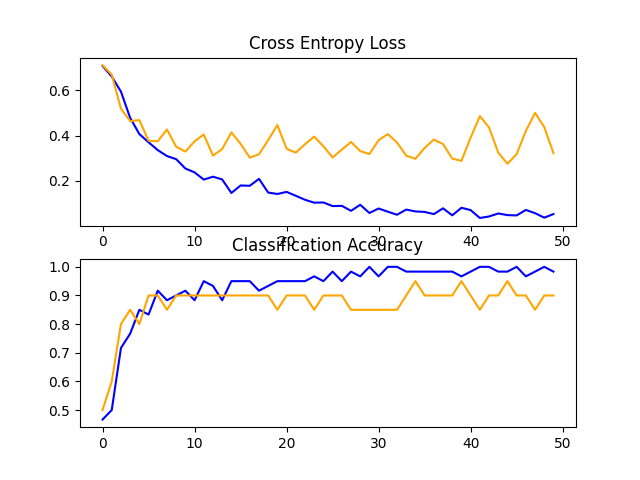
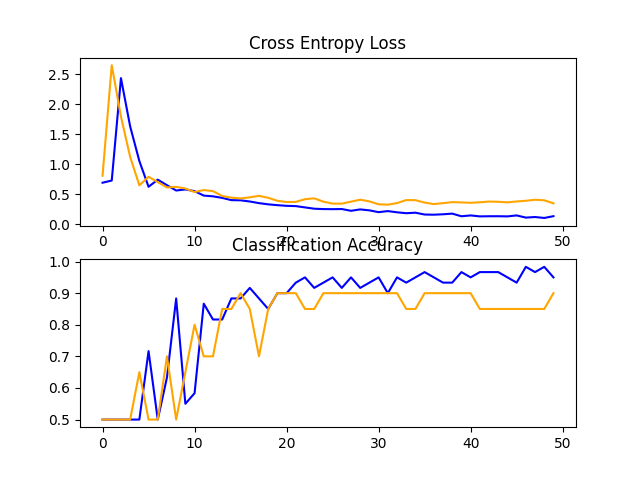
one

diff --git a/q_3_mlp.py b/q_3_mlp.py
@@ -1,0 +1,143 @@
+import sys
+import numpy as np
+from matplotlib import pyplot
+import matplotlib.pyplot as plt
+from keras.models import Sequential
+from keras.layers import Conv2D
+from keras.layers import MaxPooling2D
+from keras.layers import Dense,Activation
+from keras.layers import Flatten
+from tensorflow.keras.optimizers import SGD
+from keras.preprocessing.image import ImageDataGenerator
+from sklearn.model_selection import train_test_split 
+from PIL import Image
+import os
+
+def define_model_mlp():
+  hidden_units = 200
+  image_size = 200
+  input_size = image_size * image_size*3
+  n=244
+
+  model=Sequential()
+  model.add(Dense(hidden_units, input_shape=(200*200*3,)))
+  for i in range(n-2):
+    model.add(Dense(hidden_units))
+  model.add(Dense(1))
+  # this is the output for one-hot vector
+  model.add(Activation('softmax'))
+  # compile model
+  opt = SGD(lr=0.001, momentum=0.9)
+  model.compile(optimizer=opt, loss='binary_crossentropy', metrics=['accuracy'])
+
+  return model
+
+def plotmodelhistory(history): 
+    fig, axs = plt.subplots(1,2,figsize=(15,5)) 
+    # summarize history for accuracy
+    axs[0].plot(history.history['accuracy']) 
+    #axs[0].plot(history.history['val_accuracy']) 
+    axs[0].set_title('Model Accuracy')
+    axs[0].set_ylabel('Accuracy') 
+    axs[0].set_xlabel('Epoch')
+    
+    axs[0].legend(['train', 'validate'], loc='upper left')
+    # summarize history for loss
+    axs[1].plot(history.history['loss']) 
+    #axs[1].plot(history.history['val_loss']) 
+    axs[1].set_title('Model Loss')
+    axs[1].set_ylabel('Loss') 
+    axs[1].set_xlabel('Epoch')
+    axs[1].legend(['train', 'validate'], loc='upper left')
+    plt.show()
+ 
+# plot diagnostic learning curves
+def summarize_diagnostics(history):
+  # plot loss
+  pyplot.subplot(211)
+  pyplot.title('Cross Entropy Loss')
+  pyplot.plot(history.history['loss'], color='blue', label='train')
+  #pyplot.plot(history.history['val_loss'], color='orange', label='test')
+  # plot accuracy
+  pyplot.subplot(212)
+  pyplot.title('Classification Accuracy')
+  pyplot.plot(history.history['accuracy'], color='blue', label='train')
+  #pyplot.plot(history.history['val_accuracy'], color='orange', label='test')
+  # save plot to file
+  filename = sys.argv[0].split('/')[-1]
+  pyplot.savefig(filename + '_plot.png')
+  pyplot.close()
+
+PATH_TRAIN_dirt = 'dataset_aero_vs_dirt/train/dirt' 
+PATH_TRAIN_aero = 'dataset_aero_vs_dirt/train/aero' 
+PATH_TEST_dirt = 'dataset_aero_vs_dirt/test/dirt' 
+PATH_TEST_aero = 'dataset_aero_vs_dirt/test/aero' 
+
+dirt = 1 
+aero = 0
+
+IMG_WIDTH = 200 
+IMG_HEIGHT = 200 
+NR_PIX = IMG_HEIGHT * IMG_WIDTH
+NR_CHANELS = 3
+NR_FEATURES = NR_PIX * NR_CHANELS
+
+def load_data_asanarray(path):
+    data = []
+    for dirname, _, filenames in os.walk(path):
+        for filename in filenames:
+            specific_path = os.path.join(dirname, filename)
+            image = Image.open(specific_path).resize((200,200))
+            img_array = np.asarray(image)
+            data.append(img_array)
+    return np.asarray(data).reshape(len(data),IMG_WIDTH, IMG_HEIGHT, NR_CHANELS)
+
+data_train_dirt = load_data_asanarray(PATH_TRAIN_dirt)
+data_train_aero = load_data_asanarray(PATH_TRAIN_aero)
+print(f'data_train_dirt size is {len(data_train_dirt)} data_train_aero size is {len(data_train_aero)}')
+
+y_label_dirt = np.ones((len(data_train_dirt),1))
+y_label_aero = np.zeros((len(data_train_aero),1))
+
+x_train = np.concatenate((data_train_dirt, data_train_aero), axis=0)
+y_train = np.concatenate((y_label_dirt, y_label_aero), axis=0)
+
+data_test_dirt = load_data_asanarray(PATH_TEST_dirt)
+data_test_aero = load_data_asanarray(PATH_TEST_aero)
+print(f'data_train_dirt size is {len(data_train_dirt)} data_train_aero size is {len(data_train_aero)}')
+
+y_label_dirt = np.ones((len(data_test_dirt),1))
+y_label_aero= np.zeros((len(data_test_aero),1))
+x_test = np.concatenate((data_test_dirt, data_test_aero), axis=0)
+y_test = np.concatenate((y_label_dirt, y_label_aero), axis=0)
+print(f'x_test shape is {x_test.shape} and y_shape is {y_test.shape}')
+
+X = np.concatenate((x_train, x_test), axis=0)
+Y = np.concatenate((y_train, y_test), axis=0) 
+
+x_train,x_test,y_train, y_test = train_test_split(X,Y, test_size=0.15, random_state=45)
+print(x_train.shape, y_train.shape)
+print(x_test.shape, y_test.shape)
+
+x_train = x_train.reshape(len(x_train), NR_FEATURES).T
+x_test = x_test.reshape(len(x_test), NR_FEATURES).T
+
+x_train = x_train.T
+x_test = x_test.T
+print(x_train.shape, y_train.shape)
+print(x_test.shape, y_test.shape)
+x_train, x_test = x_train / 255, x_test/ 255 
+
+
+model=define_model_mlp()
+
+history2= model.fit(x_train,y_train, steps_per_epoch=len(x_train), epochs=50, verbose=0)
+
+# evaluate model
+_, acc = model.evaluate(x_test,y_test, steps=len(x_test), verbose=0)
+print(acc * 100.0)
+# learning curves
+summarize_diagnostics(history2)
+plotmodelhistory(history2)
+ 
+
